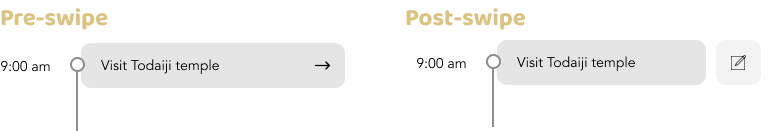
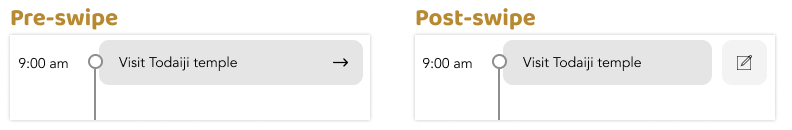
Updates Windows to Japan.html
– Added all the images I need for the case study
– Updated the contents

diff --git a/Windows to Japan.html b/Windows to Japan.html
@@ -51,7 +51,7 @@
             </div>
 
 
-            <img class="matcha-hero-image" src="Brightwheel/Mock up.png" alt="Brightwheel app mock up three screens">
+            <img class="matcha-hero-image" src="wtj-img/Mockup.png" alt="Windows to Japan app mock up screen">
         </div>
 
 
@@ -63,8 +63,8 @@
     <div class="content">
         <p>What is Windows to Japan?</p>
         <div class="mirror-body">
-            Windows to Japan is a travel company that provides customized tours to inbound travellers to Japan, where I
-            used to work for.
+            Windows to Japan is a travel company that provides customized tours to inbound travellers to Japan (I used
+            to work there!).
             Their primary focus is planning tours and booking hotels and activities for each party, and they give
             physical travel files to their clients once they arrive in Japan. Windows to Japan also supports clients
             during their stay in Japan in the case of emergencies or just for general questions.
@@ -75,14 +75,14 @@
                 <div>
                     <li>Design an end-to-end travel application that replaces the physical travel files.
                     </li>
-                    <li>Organize all the information Windows to Japan provides to their clients and simplify them so
+                    <li>Organize all the information Windows to Japan provides to their clients and simplify it so
                         that their clients won’t miss important information.
                     </li>
                 </div>
 
                 <div class="objectives">
                     <div>
-                        <p>Client:</p> Windows to Japan (Volunteer work)
+                        <p>Client:</p> Windows to Japan (Volunteer)
                     </div>
                     <div>
                         <p>Roles:</p> UX/UI designer & researcher
@@ -93,8 +93,8 @@
                 </div>
 
                 <p>Challenges</p>
-                <li>Itineraries, in general, have overloaded with important information. How might we simplify the
-                    contents when there are a lot of information? </li>
+                <li>Itineraries are usually overloaded with important information. How might we simplify the
+                    contents when there is a lot of information? </li>
                 <li>Physical documents and digital apps bring users different experiences. How might we design the app
                     so that the app won't be too text-heavy like physical documents?</li>
 
@@ -117,9 +117,10 @@
     <div class="content mirror-body">
         <p>Competitive analysis</p>
         I was curious how other travel agencies are providing tour information with their clients since I have not heard
-        of using an app before. However, I couldn’t find any competitors doing this, so instead I picked three itinerary
-        apps to analyze. Some of the apps have similar features I envisioned, such as a chat bot that helps users and
-        using an in-app travel agent to plan trips to receive itineraries within the app.
+        of one using an app before. However, I couldn’t find any competitors doing this, so instead I picked three
+        itinerary
+        apps to analyze. Some of the apps have similar features to what I envisioned, such as a chat bot and
+        access to travel agents within the app.
 
         <div>
 
@@ -135,12 +136,14 @@
 
         <p>Survey</p>
         I conducted a survey to find out what frustrations and needs there are for travel apps in general.
-        I was also wondering if there's anyone who has used a travel agency who provides itineraries via an app.
-        For survey, I targeted people who have used a travel apps to plan their trips rather than who have used a travel
+        I was also wondering if there's anyone who has used a travel agency which provides itineraries via an app.
+        For the survey recruiting, I targeted people who have used travel apps to plan their trips rather than those who
+        have used a travel
         agency.
-        I wanted to find out and collect general feedback of travel apps so that I can understand what's users needs and
-        frustrations are in general.
-        I thought this was important to understand around digital products since I'm designing a digital product rather
+        I wanted to find out and collect general feedback about travel apps so that I can understand what the users'
+        needs and
+        frustrations are.
+        I thought it was more important to understand digital products since I'm designing a digital product rather
         than physical documents.
 
 
@@ -157,14 +160,16 @@
             <p>1:1 User Interviews</p>
             After the survey, I proceeded with user interviews to collect feedback of people who have used a travel
             agency to plan their trips.
-            For this process, I wanted to discover frustrations and needs of using physical or PDF itineraries.
-            From the interview, I learned that all of the participants prefer having detailed itineraries, yet they want
-            to skip when they need to. This was interesting because I received the same feedback from survey, which all
-            of the participants answered to have detailed itinerary with some bullet points.
+            For this process, I wanted to discover the frustrations and needs of using physical or PDF itineraries.
+            From the interviews, I learned that all of the participants prefer having detailed itineraries, but they
+            also want
+            to easily skip uninteresting parts. This was interesting because I received the same feedback from the
+            survey—
+            all the participants want a detailed itinerary but in a simple format.
 
             <br><br>
 
-            Here are the major needs and pain points I collected from the user interviews.
+            Here are the major needs and pain points I collected from the user interviews:
 
             <div>
 
@@ -197,13 +202,13 @@
 
 
         <p>Persona</p>
-        Through my research, I had a quite a lot of data collected. I synthesized the data to organize user feedback
+        Through my research, I collected a lot of data. I synthesized the data to organize user feedback
         and
-        created this persona to limit all the information to only important feedback. I tried to make this as
+        created this persona to filter down to just the important feedback. I tried to make this as
         descriptive as possible so that I can easily empathize with her and design the app based on her needs and
-        frustrations. From the overall research, I was able to identify the major need that all the participants
-        mentioned was to have detailed itinerary with simplified lists of information like bullet points. Therefore, it
-        was clear the main thing that I need to focus on.
+        frustrations. From the research, I identified that the top need is to have a detailed itinerary in a simple
+        format, such as bullet points.
+        Therefore, this is the main thing I focused on.
 
         <div>
 
@@ -221,9 +226,9 @@
         <p>User Flow</p>
         I decided to make a user flow because this app would be a little complicated to navigate. To make the app
         less
-        complicated, I thought I needed to better understand the users on how they would take actions and how they
+        complicated, I needed to better understand users in how they would take actions and how they
         process their thoughts.
-        The flow ended up getting complex, but I was able to modify the flow during the iteration process and
+        The flow ended up becoming complex, but I was able to modify the flow during the iteration process and
         understand
         what might be frustrating.
 
@@ -373,13 +378,25 @@
 
         <div>
 
-            <a href=#img-hifi-request class="lightbox-link">
-                <img class="mirror-content2" src="Brightwheel/Sending a request.jpg"
+            <a href=#img-hifi-main class="lightbox-link">
+                <img class="mirror-content2" src="wtj-img/Main highfi.jpg"
                     alt="mid-fidelity wireframes sending a request">
             </a>
 
-            <a href="#!" class="lightbox" id="img-hifi-request">
-                <span style="background-image: url('Brightwheel/Sending\ a\ request.jpg')"></span>
+            <a href="#!" class="lightbox" id="img-hifi-main">
+                <span style="background-image: url('wtj-img/Main\ highfi.jpg')"></span>
+            </a>
+
+        </div>
+        <div>
+
+            <a href=#img-hifi-others class="lightbox-link">
+                <img class="mirror-content2" src="wtj-img/Other pages.jpg"
+                    alt="mid-fidelity wireframes sending a request">
+            </a>
+
+            <a href="#!" class="lightbox" id="img-hifi-others">
+                <span style="background-image: url('wtj-img/Other\ pages.jpg')"></span>
             </a>
 
         </div>
@@ -397,15 +414,14 @@
     <div class="content mirror-body">
 
         <p>Prototype and Usability Test</p>
-        <a class="link"
-            href="https://www.figma.com/proto/kC1vyScK9X1n2jBAD8PLZA/Brightwheel-Hi-fi-design?page-id=0%3A1&node-id=27%3A96&viewport=241%2C48%2C0.3&scaling=scale-down&starting-point-node-id=27%3A96&show-proto-sidebar=1"
+        <a class="link" href="https://www.figma.com/file/lrMngfGejAwBsqBNVA532Q/WTJ-hi-fi-design?node-id=0%3A1"
             target="_blank">View Prototype</a><br><br>
         I decided to conduct another usability test to see if hi-fidelity wireframes solved the problems in the
         mid-fidelity wireframes. I also wanted to see if there's anything else that could be improved in the design
         and use of icons and colors.
         <ul>
             <li>Zoom (4 participants)</li>
-            <li>Maze (11 participants)</li>
+            <li>Maze (13 participants)</li>
         </ul>
 
         <p>Affinity Map</p>
@@ -415,12 +431,12 @@
         realize what I need to work on to make the design better.
 
         <div>
-            <a href=#img-affinity-map class="lightbox-link">
-                <img class="mirror-content2" src="Brightwheel/Affinity map.jpg" alt="Affinity map">
+            <a href=#img-hifi-affinity-map class="lightbox-link">
+                <img class="mirror-content2" src="wtj-img/WTJ Affinity Map - WTJ Usability test.jpg" alt="Affinity map">
             </a>
 
-            <a href="#!" class="lightbox" id="img-affinity-map">
-                <span style="background-image: url('Brightwheel/Affinity\ map.jpg')"></span>
+            <a href="#!" class="lightbox" id="img-hifi-affinity-map">
+                <span style="background-image: url('wtj-img/WTJ\ Affinity\ Map\ -\ WTJ\ Usability\ test.jpg')"></span>
             </a>
         </div>
 
@@ -430,26 +446,66 @@
         to make revisions since the edit button and swiping effect wasn't clear enough.
 
         As well as the frustrations, I received a lot of good feedback of the app providing very detailed yet simple
-        and
-        easy interface, which I
-        was trying to achieve.
+        and easy interface, which I was trying to achieve.
 
         <br>
 
         <div>
             <div class="mirror-content">
-                TEXT
+                I tested this in the mid-fidelity wireframes, and I learned that it wasn't intuitive to swipe this
+                without any explanations.
+                For that reason, I decided to include on-boarding screens in high-fidelity designs so that people can aware of the feature. In high-fidelity
+                usability test, I learned people still didn't realize they could swipe it even though some participants
+                read the whole on-boarding screens (in Zoom usability test). 
+                I didn't want the feature to be undiscovered, so I decided to include a pop-up screen on the itinerary page so that it gets users attentions. 
             </div>
             <div>
-                <a href=#img-revision-profile class="lightbox-link">
-                    <img class="mirror-content2" src="Brightwheel/Priority revision profile.jpg"
+                <a href=#img-revision-popup class="lightbox-link">
+                    <img class="mirror-content2" src="wtj-img/Pop-up.jpg"
                         alt="Revisions I made based on the user test, profile">
                 </a>
-                <a href="#!" class="lightbox" id="img-revision-profile">
-                    <span style="background-image: url('Brightwheel/Priority\ revision\ profile.jpg')"></span>
+                <a href="#!" class="lightbox" id="img-revision-popup">
+                    <span style="background-image: url('wtj-img/Pop-up.jpg')"></span>
                 </a>
             </div>
         </div>
+
+        <div>
+            <div class="mirror-content">
+                In the mid-fidelity usability test, I was aware of the edit icon being hard to find. I tried making it
+                more obvious in the high-fidelity designs, but I discovered that the participants still have a hard time
+                finding it. I received some
+                feedback saying it's better to have text saying "edit" or "modify", so I decided to have both the edit
+                icon and text. I also moved it to the white part and made it bigger so that it's more prominent from other
+                information.
+            </div>
+            <div>
+                <a href=#img-revision-edit class="lightbox-link">
+                    <img class="mirror-content2" src="wtj-img/Edit.jpg"
+                        alt="Revisions I made based on the user test, profile">
+                </a>
+                <a href="#!" class="lightbox" id="img-revision-edit">
+                    <span style="background-image: url('wtj-img/Edit.jpg')"></span>
+                </a>
+            </div>
+        </div>
+        <div>
+            <div class="mirror-content">
+                One of the participants pointed out that "Choose an alternative option in the area" wasn't clear so he couldn't find the alternative place.
+                After he said that, I realized that I didn't change the text size from 14px to 16px, so I changed it and also made it bolder for better readability.
+            </div>
+            <div>
+                <a href=#img-revision-text class="lightbox-link">
+                    <img class="mirror-content2" src="wtj-img/Text size.jpg"
+                        alt="Revisions I made based on the user test, profile">
+                </a>
+                <a href="#!" class="lightbox" id="img-revision-text">
+                    <span style="background-image: url('wtj-img/Text\ size.jpg')"></span>
+                </a>
+            </div>
+        </div>
+
+
 
 
 
@@ -472,9 +528,10 @@
             and I
             realized how important it is to have users involved in the middle of the process.
         </li>
-        <li>Don’t be afraid to use fonts that look big on your design tools—it won’t look big unless it’s too big.
+        <li>Don't assume users will understand a feature just by its icon. Feel free to add a description to tell users
+            how it works.</li>
+        <li>When designing on a large screen, be aware that readable text may not be readable on smaller phone screens.
         </li>
-        <li>TEXT </li>
     </div>
 
 
